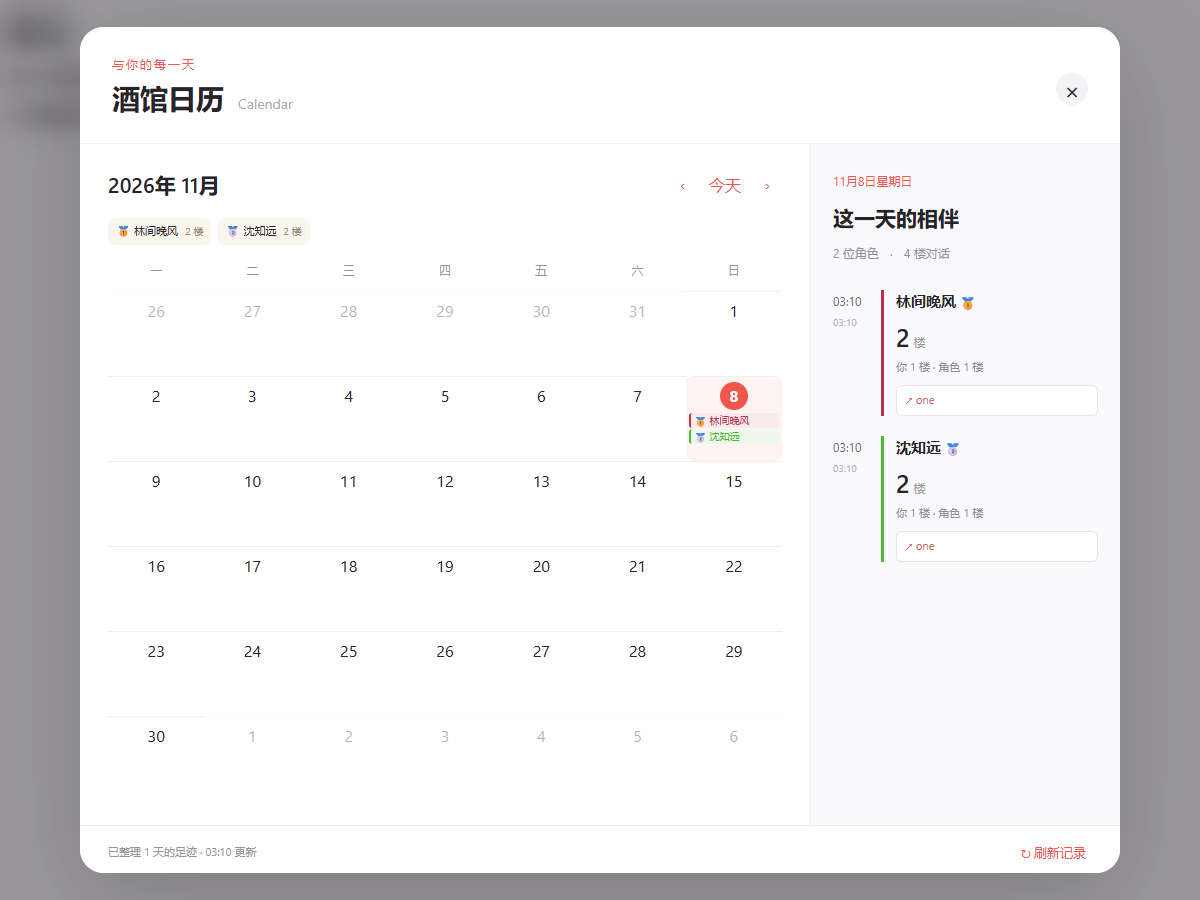
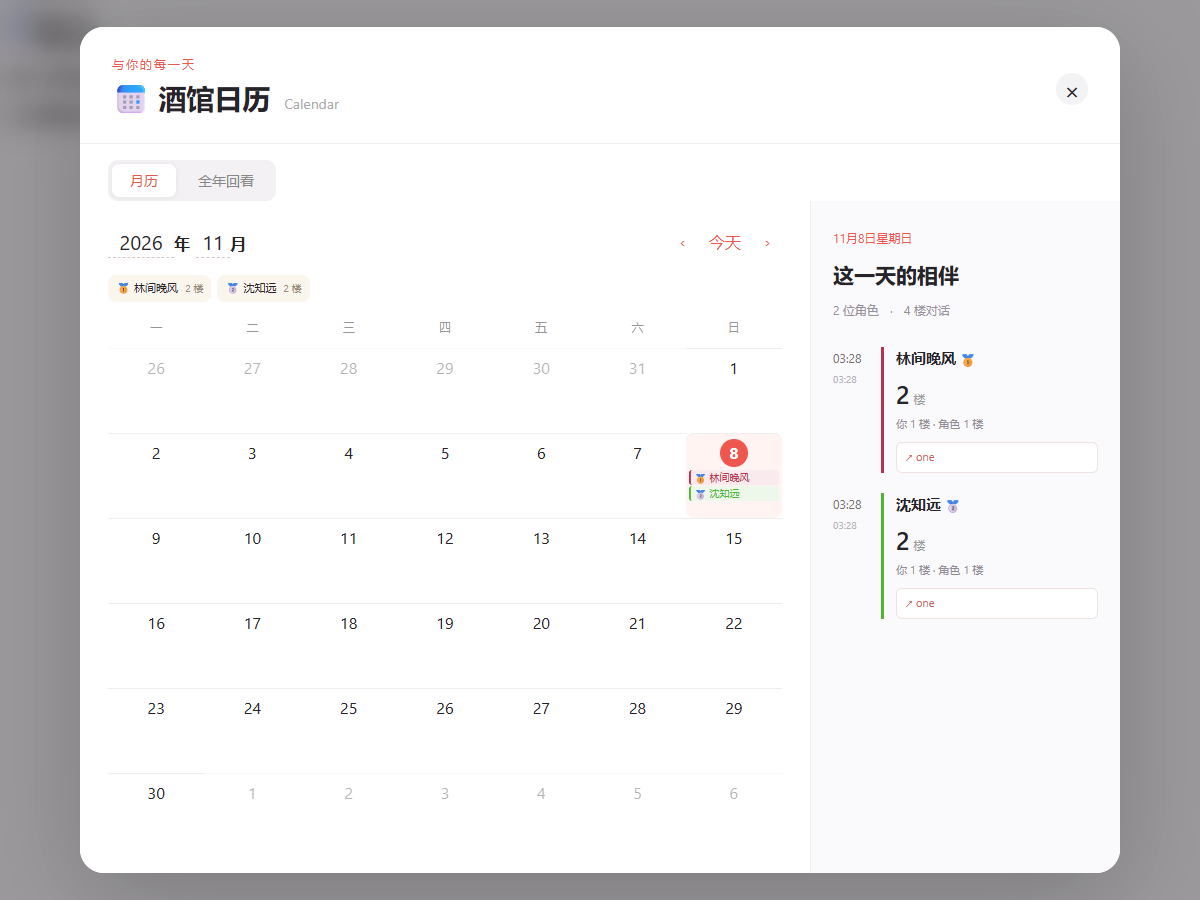
Add loading progress, editable dates and annual month overview

diff --git a/index.js b/index.js
@@ -12,6 +12,7 @@
  }
  const esc = s => String(s ?? '').replace(/[&<>"']/g,c=>({'&':'&amp;','<':'&lt;','>':'&gt;','"':'&quot;',"'":'&#39;'}[c]));
  const color = s => {let h=0; for(const c of s) h=(h*31+c.charCodeAt(0))|0; return `hsl(${Math.abs(h)%360} 58% 46%)`;};
+ let view='month', progress=0;
  let days={}, selected=key(new Date()), month=new Date(new Date().getFullYear(),new Date().getMonth(),1), busy=false, status='点击刷新，读取历史聊天', scanned=false, lastFocus;
  function aggregate(target, seen, char, messages, fileName='') {
    for(const m of messages) {
@@ -69,33 +70,54 @@
    const data=await response.json(); if(data?.error) throw Error('读取失败'); return data;
  }
  async function refresh() {
-   if(busy) return;
+   if(busy)return;
    const chars=(ctx()?.characters||[]).filter(c=>c?.avatar);
    if(!chars.length){status='角色列表尚未就绪，请打开角色列表后刷新';render();return;}
-   busy=true; const next={}; let errors=0, done=0;
-   try {
-     for(const char of chars) {
-       status=`正在整理 ${++done} / ${chars.length} · ${char.name}`; render();
-       const seen=new Set();
-       try {
-         const list=await post('/api/characters/chats',{avatar_url:char.avatar});
-         for(const file of Object.values(list||{})) {
-           if(!file?.file_name) continue;
-           try {
-             const data=await post('/api/chats/get',{ch_name:char.name,avatar_url:char.avatar,file_name:file.file_name.replace(/\.jsonl?$/i,'')});
-             const messages=Array.isArray(data)?data:Array.isArray(data?.chat)?data.chat:Array.isArray(data?.messages)?data.messages:Object.values(data||{});
-             aggregate(next,seen,char,messages,file.file_name.replace(/\.jsonl?$/i,''));
-           } catch {errors++;}
-         }
-       } catch {errors++;}
+   busy=true;progress=0;status='正在查找聊天存档…';render();
+   const next={},jobs=[];let errors=0,completed=0;
+   try{
+     for(let i=0;i<chars.length;i++){
+       const char=chars[i];
+       try{const list=await post('/api/characters/chats',{avatar_url:char.avatar});
+         for(const file of Object.values(list||{}))if(file?.file_name)jobs.push({char,file:file.file_name.replace(/\.jsonl?$/i,'')});
+       }catch{errors++;}
+       progress=Math.round((i+1)/chars.length*15);status='查找存档 · '+(i+1)+' / '+chars.length+' 位角色';render();
      }
-     days=next; scanned=true;
-     status=errors?`部分记录读取失败（${errors} 项），可刷新重试`:`已整理 ${Object.keys(days).length} 天的足迹 · ${new Date().toLocaleTimeString('zh-CN',{hour:'2-digit',minute:'2-digit'})} 更新`;
-   } finally {busy=false;render();}
+     const seenByChar=new Map();
+     for(const {char,file} of jobs){
+       status='正在读取 '+char.name+' · '+completed+' / '+jobs.length+' 个存档';render();
+       try{
+         const data=await post('/api/chats/get',{ch_name:char.name,avatar_url:char.avatar,file_name:file});
+         const messages=Array.isArray(data)?data:Array.isArray(data?.chat)?data.chat:Array.isArray(data?.messages)?data.messages:Object.values(data||{});
+         if(!seenByChar.has(char.avatar))seenByChar.set(char.avatar,new Set());
+         aggregate(next,seenByChar.get(char.avatar),char,messages,file);
+       }catch{errors++;}
+       completed++;progress=Math.round(15+completed/Math.max(1,jobs.length)*85);render();
+     }
+     days=next;scanned=true;progress=100;
+     status=errors?'部分记录读取失败（'+errors+' 项），可刷新重试':'已整理 '+Object.keys(days).length+' 天的足迹 · '+new Date().toLocaleTimeString('zh-CN',{hour:'2-digit',minute:'2-digit'})+' 更新';
+   }finally{busy=false;render();}
+ }
+ function yearSummary(data,year){
+   const months=Array.from({length:12},(_,i)=>({month:i+1,total:0,days:0,chars:new Set()}));
+   for(const [day,rows] of Object.entries(data)){
+     if(!day.startsWith(year+'-'))continue;
+     const entry=months[Number(day.slice(5,7))-1];if(!entry)continue;
+     let total=0;
+     for(const r of Object.values(rows)){const n=r.user+r.char;total+=n;if(n>0)entry.chars.add(r.avatar);}
+     entry.total+=total;if(total>0)entry.days++;
+   }
+   const top=months.filter(m=>m.total>0).sort((a,b)=>b.total-a.total||a.month-b.month).slice(0,3);
+   return months.map(m=>({...m,chars:m.chars.size,rank:top.indexOf(m)+1}));
+ }
+ function annualHTML(){
+   const months=yearSummary(days,month.getFullYear()),max=Math.max(1,...months.map(m=>m.total));
+   const total=months.reduce((a,m)=>a+m.total,0),active=months.reduce((a,m)=>a+m.days,0);
+   return '<div class="tc-year-summary"><b>'+total.toLocaleString()+'<small> 楼年度对话</small></b><span>'+active+' 天相伴 · '+months.filter(m=>m.total>0).length+' 个活跃月份</span></div><div class="tc-year-chart" aria-label="全年各月聊天楼数">'+months.map(m=>'<button class="tc-year-row" data-action="pick-month" data-month="'+m.month+'" aria-label="'+m.month+'月，'+m.total+'楼'+(m.rank?'，年度第'+m.rank+'名':'')+'"><span>'+m.month+'月</span><span class="tc-bar-track"><span class="tc-bar tc-rank-'+m.rank+'" style="width:'+m.total/max*100+'%"></span></span><strong>'+m.total.toLocaleString()+' <small>楼</small></strong><span class="tc-year-medal">'+(m.rank?['🥇','🥈','🥉'][m.rank-1]:'')+'</span></button>').join('')+'</div><p class="tc-year-hint">条形长度表示该月总楼数；点击月份查看日历。仅有聊天的月份参与颁奖，同分按月份先后排序。</p>';
  }
  function render() {
    const root=document.querySelector('#tcal'); if(!root)return;
-   const title=`${month.getFullYear()}年 ${month.getMonth()+1}月`;
+   const title=`<label><input data-period="year" aria-label="年份" type="number" min="100" max="9999" value="${month.getFullYear()}">年</label>${view==='month'?`<label><input data-period="month" aria-label="月份" type="number" min="1" max="12" value="${month.getMonth()+1}">月</label>`:''}`;
    const leaders=monthlyRanks(days,key(month).slice(0,7));
    const badge=avatar=>{const rank=leaders.findIndex(r=>r.avatar===avatar);return rank<0?'':`<span class="tc-medal" title="${month.getMonth()+1}月第${rank+1}名 · ${leaders[rank].total}楼" aria-label="本月第${rank+1}名">${['🥇','🥈','🥉'][rank]}</span>`;};
    const start=new Date(month.getFullYear(),month.getMonth(),1); start.setDate(1-(start.getDay()+6)%7);
@@ -107,25 +129,35 @@
    const rows=Object.values(days[selected]||{}).sort((a,b)=>a.first-b.first), total=rows.reduce((s,r)=>s+r.user+r.char,0);
    const date=new Date(selected+'T12:00:00');
    const time=t=>new Date(t).toLocaleTimeString('zh-CN',{hour:'2-digit',minute:'2-digit'});
-   root.innerHTML=`<section class="tc-shell" role="dialog" aria-modal="true" aria-label="酒馆日历"><header><div><span class="tc-eyebrow">与你的每一天</span><h1>酒馆日历<span>Calendar</span></h1></div><button data-action="close" class="tc-close" aria-label="关闭日历">×</button></header><div class="tc-body"><main><nav><h2>${title}</h2><div><button data-action="prev" aria-label="上个月">‹</button><button data-action="today">今天</button><button data-action="next" aria-label="下个月">›</button></div></nav><div class="tc-podium" aria-label="本月聊天前三名">${leaders.map((r,i)=>`<span title="同楼数按角色标识排序">${['🥇','🥈','🥉'][i]} ${esc(r.name)} <small>${r.total} 楼</small></span>`).join('')}</div><div class="tc-week">${['一','二','三','四','五','六','日'].map(x=>`<span>${x}</span>`).join('')}</div><div class="tc-grid">${cells}</div></main><aside><div class="tc-date">${date.toLocaleDateString('zh-CN',{month:'long',day:'numeric',weekday:'long'})}</div><h2>这一天的相伴</h2><p class="tc-summary">${rows.length} 位角色 <span>·</span> ${total} 楼对话</p><div class="tc-agenda">${rows.length?rows.map(r=>`<article style="--char-color:${color(r.avatar)}"><div class="tc-time">${time(r.first)}<small>${time(r.last)}</small></div><div class="tc-card"><strong>${esc(r.name)}${badge(r.avatar)}</strong><b>${r.user+r.char}<small> 楼</small></b><p>你 ${r.user} 楼 · 角色 ${r.char} 楼</p><div class="tc-archives">${(r.files||[]).map(file=>`<button data-action="jump" data-avatar="${esc(r.avatar)}" data-file="${esc(file)}" ${jumping?'disabled':''} title="打开此聊天存档">↗ ${esc(file)}</button>`).join('')}</div></div></article>`).join(''):`<div class="tc-empty"><span>☷</span><p>${busy?'正在寻找聊天足迹…':scanned?'这一天，还没有聊天足迹':'把和 TA 的日常，收进日历'}</p><small>每一次对话，都是相伴的印记。</small></div>`}</div></aside></div><footer><span role="status">${esc(status)}</span><button data-action="refresh" ${busy?'disabled':''}>${busy?'整理中…':'↻ 刷新记录'}</button></footer><div class="tc-note">按本机时区统计单人聊天；双方每条消息各计 1 楼，不含系统消息。相同时间、身份与正文的分支副本只计一次。重生成的候选回复不额外计数。</div></section>`;
+   root.innerHTML=`<section class="tc-shell" role="dialog" aria-modal="true" aria-label="酒馆日历"><header><div><span class="tc-eyebrow">与你的每一天</span><h1>📅 酒馆日历<span>Calendar</span></h1></div><button data-action="close" class="tc-close" aria-label="关闭日历">×</button></header><div class="tc-tabs"><button data-action="month-view" aria-pressed="${view==='month'}">月历</button><button data-action="year-view" aria-pressed="${view==='year'}">全年回看</button></div><div class="tc-body"><main><nav><h2>${title}</h2><div><button data-action="prev" aria-label="${view==='year'?'上一年':'上个月'}">‹</button><button data-action="today">今天</button><button data-action="next" aria-label="${view==='year'?'下一年':'下个月'}">›</button></div></nav><div class="tc-podium" aria-label="本月聊天前三名">${leaders.map((r,i)=>`<span title="同楼数按角色标识排序">${['🥇','🥈','🥉'][i]} ${esc(r.name)} <small>${r.total} 楼</small></span>`).join('')}</div><div class="tc-week">${['一','二','三','四','五','六','日'].map(x=>`<span>${x}</span>`).join('')}</div><div class="tc-grid">${cells}</div></main><aside><div class="tc-date">${date.toLocaleDateString('zh-CN',{month:'long',day:'numeric',weekday:'long'})}</div><h2>这一天的相伴</h2><p class="tc-summary">${rows.length} 位角色 <span>·</span> ${total} 楼对话</p><div class="tc-agenda">${rows.length?rows.map(r=>`<article style="--char-color:${color(r.avatar)}"><div class="tc-time">${time(r.first)}<small>${time(r.last)}</small></div><div class="tc-card"><strong>${esc(r.name)}${badge(r.avatar)}</strong><b>${r.user+r.char}<small> 楼</small></b><p>你 ${r.user} 楼 · 角色 ${r.char} 楼</p><div class="tc-archives">${(r.files||[]).map(file=>`<button data-action="jump" data-avatar="${esc(r.avatar)}" data-file="${esc(file)}" ${jumping?'disabled':''} title="打开此聊天存档">↗ ${esc(file)}</button>`).join('')}</div></div></article>`).join(''):`<div class="tc-empty"><span>☷</span><p>${busy?'正在寻找聊天足迹…':scanned?'这一天，还没有聊天足迹':'把和 TA 的日常，收进日历'}</p><small>每一次对话，都是相伴的印记。</small></div>`}</div></aside></div><footer><span role="status">${esc(status)}</span><button data-action="refresh" ${busy?'disabled':''}>${busy?'整理中…':'↻ 刷新记录'}</button></footer><div class="tc-note">按本机时区统计单人聊天；双方每条消息各计 1 楼，不含系统消息。相同时间、身份与正文的分支副本只计一次。重生成的候选回复不额外计数。</div></section>`;
+   if(view==='year'){
+     const body=root.querySelector('.tc-body');body.classList.add('tc-year-body');
+     const main=body.querySelector('main'),nav=main.querySelector('nav');main.replaceChildren(nav);
+     main.insertAdjacentHTML('beforeend',annualHTML());body.querySelector('aside').remove();
+   }
+   if(busy){
+     root.querySelector('.tc-body').innerHTML=`<div class="tc-loading"><span class="tc-load-icon">📅</span><h2>${scanned?'正在更新聊天足迹':'正在整理你的聊天足迹'}</h2><p>${esc(status)}</p><div class="tc-progress" role="progressbar" aria-label="聊天记录读取进度" aria-valuemin="0" aria-valuemax="100" aria-valuenow="${progress}"><span style="width:${progress}%"></span></div><strong>${progress}%</strong><small>首次读取可能需要一点时间，完成后自动显示。</small></div>`;
+     root.querySelector('.tc-body').className='tc-body tc-loading-body';
+     root.querySelectorAll('.tc-tabs button').forEach(b=>b.disabled=true);
+   }
  }
  function close(){document.querySelector('#tcal')?.remove();lastFocus?.focus();}
- function open(){if(document.querySelector('#tcal'))return;lastFocus=document.activeElement;const root=document.createElement('div');root.id='tcal';document.body.append(root);root.addEventListener('click',e=>{if(e.target===root){close();return;}const b=e.target.closest('button');if(!b)return;if(b.dataset.day){selected=b.dataset.day;month=new Date(selected+'T12:00:00');month.setDate(1);render();return;}switch(b.dataset.action){case'jump':jumpToChat(b.dataset.avatar,b.dataset.file);break;case'close':close();break;case'prev':month.setMonth(month.getMonth()-1);selected=key(month);render();break;case'next':month.setMonth(month.getMonth()+1);selected=key(month);render();break;case'today':selected=key(new Date());month=new Date(new Date().getFullYear(),new Date().getMonth(),1);render();break;case'refresh':refresh();}});root.addEventListener('keydown',e=>{if(e.key==='Escape')close();if(e.key==='Tab'){const items=[...root.querySelectorAll('button:not(:disabled)')];if(e.shiftKey&&document.activeElement===items[0]){e.preventDefault();items.at(-1).focus();}else if(!e.shiftKey&&document.activeElement===items.at(-1)){e.preventDefault();items[0].focus();}}});render();root.querySelector('button').focus();if(!scanned)refresh();}
+ function open(){if(document.querySelector('#tcal'))return;lastFocus=document.activeElement;const root=document.createElement('div');root.id='tcal';document.body.append(root);root.addEventListener('click',e=>{if(e.target===root){close();return;}const b=e.target.closest('button');if(!b)return;if(b.dataset.day){selected=b.dataset.day;month=new Date(selected+'T12:00:00');month.setDate(1);render();return;}switch(b.dataset.action){case'month-view':view='month';render();break;case'year-view':view='year';render();break;case'pick-month':month.setMonth(Number(b.dataset.month)-1);selected=key(month);view='month';render();break;case'jump':jumpToChat(b.dataset.avatar,b.dataset.file);break;case'close':close();break;case'prev':view==='year'?month.setFullYear(month.getFullYear()-1):month.setMonth(month.getMonth()-1);selected=key(month);render();break;case'next':view==='year'?month.setFullYear(month.getFullYear()+1):month.setMonth(month.getMonth()+1);selected=key(month);render();break;case'today':selected=key(new Date());month=new Date(new Date().getFullYear(),new Date().getMonth(),1);render();break;case'refresh':refresh();}});root.addEventListener('change',e=>{if(!e.target.matches('input[data-period]'))return;const n=Number(e.target.value),isYear=e.target.dataset.period==='year';if(!Number.isInteger(n)||n<(isYear?100:1)||n>(isYear?9999:12)){e.target.value=isYear?month.getFullYear():month.getMonth()+1;return;}if(isYear)month.setFullYear(n);else month.setMonth(n-1);selected=key(month);render();});root.addEventListener('keydown',e=>{if(e.key==='Enter'&&e.target.matches('input[data-period]')){e.preventDefault();e.target.blur();}if(e.key==='Escape')close();if(e.key==='Tab'){const items=[...root.querySelectorAll('button:not(:disabled),input:not(:disabled)')];if(e.shiftKey&&document.activeElement===items[0]){e.preventDefault();items.at(-1).focus();}else if(!e.shiftKey&&document.activeElement===items.at(-1)){e.preventDefault();items[0].focus();}}});render();root.querySelector('button').focus();if(!scanned)refresh();}
  function mount(){
    const host=document.querySelector('#extensionsMenu')||document.querySelector('#extensions_menu');
    if(host&&!document.querySelector('#tcal-launch')){
      const b=document.createElement('div');b.id='tcal-launch';b.className='list-group-item flex-container flexGap5';b.setAttribute('role','button');b.tabIndex=0;
-     b.innerHTML='<div class="fa-fw fa-solid fa-calendar-days extensionsMenuExtensionButton"></div><span>酒馆日历</span>';
+     b.innerHTML='<span class="extensionsMenuExtensionButton">📅</span><span>酒馆日历</span>';
      b.onclick=open;b.onkeydown=e=>{if(e.key==='Enter'||e.key===' '){e.preventDefault();open();}};host.append(b);
    }
    const settings=document.querySelector('#extensions_settings2')||document.querySelector('#extensions_settings');
    if(settings&&!document.querySelector('#tcal-settings')){
      const panel=document.createElement('div');panel.id='tcal-settings';panel.className='extension_container';
-     panel.innerHTML='<div class="inline-drawer"><div class="inline-drawer-toggle inline-drawer-header"><b>酒馆日历</b><div class="inline-drawer-icon fa-solid fa-circle-chevron-down down"></div></div><div class="inline-drawer-content"><p>按天回看和角色的聊天足迹。</p><button type="button" class="menu_button" id="tcal-settings-open">打开酒馆日历</button><small>也可从输入框旁的扩展快捷菜单打开。</small></div></div>';
+     panel.innerHTML='<div class="inline-drawer"><div class="inline-drawer-toggle inline-drawer-header"><b>📅 酒馆日历</b><div class="inline-drawer-icon fa-solid fa-circle-chevron-down down"></div></div><div class="inline-drawer-content"><p>按天回看和角色的聊天足迹。</p><button type="button" class="menu_button" id="tcal-settings-open">打开酒馆日历</button><small>也可从输入框旁的扩展快捷菜单打开。</small></div></div>';
      panel.querySelector('button').onclick=open;settings.append(panel);
    }
  }
  function boot(){mount();const observer=new MutationObserver(mount);observer.observe(document.body,{childList:true,subtree:true});}
- window.TavernCalendar={open,refresh,dateOf,aggregate,monthlyRanks};
+ window.TavernCalendar={open,refresh,dateOf,aggregate,monthlyRanks,yearSummary};
  if(document.readyState==='loading')document.addEventListener('DOMContentLoaded',boot,{once:true});else boot();
 })();

diff --git a/style.css b/style.css
@@ -9,3 +9,33 @@
 #tcal .tc-archives button{color:#ce6258;background:#fff;border:1px solid #eee3e0;border-radius:6px;text-align:left;font-size:11px;padding:6px 8px;overflow-wrap:anywhere;white-space:normal;min-width:0}
 #tcal .tc-archives button:hover{background:#fff1ed}
 #tcal .tc-archives button:disabled{opacity:.5;cursor:wait}
+#tcal .tc-tabs{display:flex;gap:4px;margin:16px 28px 0;background:#f3f1f4;border-radius:10px;padding:4px;width:max-content}
+#tcal .tc-tabs button{padding:6px 18px;border-radius:7px;color:#888}
+#tcal .tc-tabs button[aria-pressed=true]{background:#fff;color:#e35950;box-shadow:0 1px 5px #0001}
+#tcal nav h2{display:flex;align-items:center;gap:6px;font-size:16px;white-space:nowrap}
+#tcal nav input{font:600 20px/1.4 inherit;font-family:inherit;font-size:20px;color:#29252c;background:transparent;border:0;border-bottom:1px dashed #d9c6c2;border-radius:0;padding:2px;width:66px;text-align:center;box-shadow:none;appearance:textfield}
+#tcal nav input[data-period=month]{width:34px}
+#tcal nav input::-webkit-inner-spin-button,#tcal nav input::-webkit-outer-spin-button{-webkit-appearance:none;margin:0}
+#tcal .tc-year-body{display:block}
+#tcal .tc-year-summary{display:flex;align-items:center;justify-content:space-between;gap:12px;background:#fff4ef;border-radius:14px;padding:18px 20px;margin-bottom:24px}
+#tcal .tc-year-summary b{font-size:30px;color:#d45e50}
+#tcal .tc-year-summary small,#tcal .tc-year-summary>span{font-size:12px;font-weight:400;color:#a0786f}
+#tcal .tc-year-row{width:100%;display:grid;grid-template-columns:36px minmax(0,1fr) 84px 24px;align-items:center;gap:12px;padding:9px 4px;text-align:left;border-radius:8px}
+#tcal .tc-year-row:hover{background:#fff5f2}
+#tcal .tc-bar-track{height:22px;background:repeating-linear-gradient(to right,#f5f2f5 0,#f5f2f5 calc(25% - 1px),#e5e1e7 calc(25% - 1px),#e5e1e7 25%);border-radius:4px;overflow:hidden}
+#tcal .tc-bar{height:100%;display:block;background:#eeb9ae;border-radius:4px}
+#tcal .tc-rank-1{background:linear-gradient(90deg,#e9c274,#d9a53e)}
+#tcal .tc-rank-2{background:linear-gradient(90deg,#c8ced8,#9ba9bd)}
+#tcal .tc-rank-3{background:linear-gradient(90deg,#d9ae8c,#b6805b)}
+#tcal .tc-year-row strong{text-align:right;font-size:13px;font-weight:500}
+#tcal .tc-year-row small{font-size:10px;color:#999}
+#tcal .tc-year-hint{font-size:11px;color:#aaa;margin-top:20px}
+#tcal .tc-loading-body{display:block;min-height:440px}
+#tcal .tc-loading{text-align:center;padding:65px 28px;max-width:560px;margin:auto}
+#tcal .tc-load-icon{font-size:44px;display:block;margin-bottom:16px}
+#tcal .tc-loading p{font-size:13px;color:#98909b;overflow-wrap:anywhere}
+#tcal .tc-progress{height:10px;border-radius:10px;background:#f5e9e5;overflow:hidden;margin:26px 0 12px}
+#tcal .tc-progress>span{display:block;height:100%;background:linear-gradient(90deg,#f4b9a7,#ed655c);border-radius:10px;transition:width .2s}
+#tcal .tc-loading strong{font-size:22px;color:#e2675b;display:block}
+#tcal .tc-loading small{display:block;color:#aaa;font-size:11px;margin-top:18px}
+@media(max-width:700px){#tcal h1{font-size:22px}#tcal h1 span{font-size:12px;margin-left:8px}#tcal nav{gap:4px}#tcal nav button{padding:5px 7px}#tcal .tc-tabs{margin-left:18px}#tcal .tc-year-summary{padding:14px;align-items:flex-start;flex-direction:column;gap:4px}#tcal .tc-year-row{grid-template-columns:30px minmax(0,1fr) 66px 20px;gap:6px}#tcal .tc-year-row strong{font-size:12px}#tcal .tc-loading{padding:55px 24px}}
